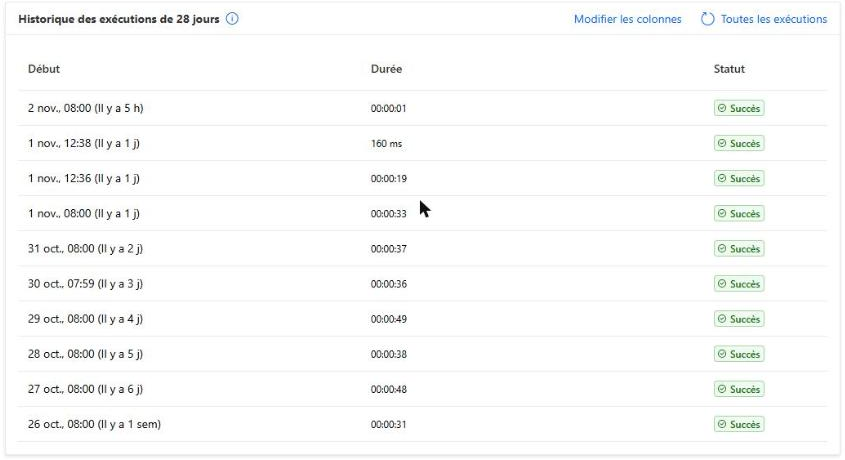
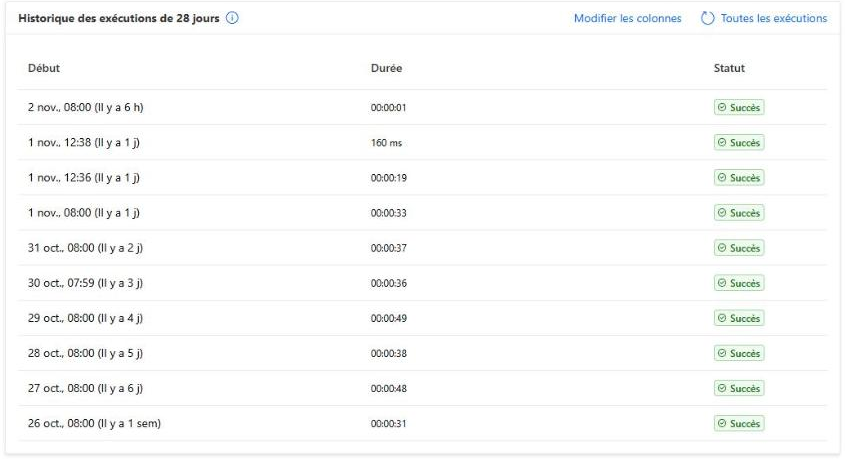
docs(progression): consigne l'echeance du 15 decembre, la liste priorisee et le scenario video final

diff --git a/docs/captures.md b/docs/captures.md
@@ -1,4 +1,4 @@
-# Captures d'écran et vidéo de démo
+# Captures d'écran et vidéo de démo
 
 Plan de prise de vue, dans l'ordre du parcours de démo. Les écrans hébergés par Power Platform
 doivent être capturés **avant le 15 décembre 2026**, date de suspension de l'environnement de
@@ -34,7 +34,7 @@ Toutes les images vont dans `docs/images/`, en PNG, nommées `NN-sujet.png`.
 | 11 | `11-dataverse-relation.png` | Table Demande AIPRP, Relations | `gk_demande` vers `gk_activite`, un-à-plusieurs | Claude | ✅ Fait le 2 nov. |
 | 12 | `12-flux-liste.png` | Power Automate, flux de la solution | Les 3 flux, état « Activé » | Claude | ✅ Fait le 2 nov. |
 | 13 | `13-flux1-execution.png` | Flux 1, exécution du 1er nov. à 12 h 32 | Condition fausse, branche « Faux », coches vertes | Claude | ✅ Fait le 2 nov. |
-| 14 | `14-flux2-historique.png` | Flux 2, historique des exécutions | Passages de 12 h 36 (19 s) et 12 h 38 (160 ms) : preuve de l'anti-doublon | Claude | ✅ Fait le 2 nov. (cadre de l'historique seulement) |
+| 14 | `14-flux2-historique.png` | Flux 2, historique des exécutions | Passages de 12 h 36 (19 s) et 12 h 38 (160 ms) : preuve de l'anti-doublon | Claude | ✅ Fait le 2 nov. (cadre de l'historique seulement, refaite sans pointeur) |
 | 15 | `15-flux3-concepteur.png` | Flux 3, concepteur, vue d'ensemble | Déclencheur, approbation, condition et ses deux branches. **Quitter sans enregistrer** | Claude | ✅ Fait le 2 nov., quitté sans enregistrer |
 | 16 | `16-flux3-execution.png` | Flux 3, exécution de l'approbation | Branche « Vrai » réussie | Claude | ✅ Fait le 2 nov. |
 | 17 | `17-approbation-carte.png` | Approbations, carte « Prorogation - … » ouverte | Motif et nouvelle échéance | Gween | Pendant les tests de la phase 3, avant de répondre |
@@ -44,25 +44,87 @@ Toutes les images vont dans `docs/images/`, en PNG, nommées `NN-sujet.png`.
 | 21 | `21-github-actions.png` | GitHub Actions | Pipeline vert (Solution Checker) | Gween | Phase 4 |
 | 22 | `22-github-adr.png` | GitHub, un ADR | Options et décision | Gween | Phase 6 |
 
+## Captures à refaire après le ménage des données
+
+Les compteurs actuels incluent les 2 demandes de test (A-2026-01021 et A-2026-01022), et la
+fiche de A-2026-01003 affiche un courriel en `exemple-fictif.ca`. Après le ménage (suppression de
+A-2026-01022, puis de A-2026-01021 à la fin des tests de la phase 3, avec l'accord de Gween, courriels passés en `example.com`), refaire **01, 02, 03,
+03b et 06** dans l'application publiée, avant le 15 décembre. Contrôle : la somme des tuiles du
+tableau de bord vaut 15.
+
+## Captures de la phase 3 (08, 17, 18, 19)
+
+Elles se prennent pendant le test de séparation des tâches, dans cet ordre, sur **A-2026-01021
+seulement**. Préparer deux fenêtres : une fenêtre InPrivate connectée avec `agent.test` (l'agent), la
+fenêtre normale avec le compte de Gween (le gestionnaire).
+
+1. **08 — Prorogation en attente** (fenêtre `agent.test`, application publiée). Ouvrir A-2026-01021 ;
+   si elle est à « Prorogée », la remettre à « En traitement ». Remplir « Demander une prorogation »
+   avec un motif fictif et une nouvelle échéance postérieure à l'échéance actuelle, puis soumettre.
+   Capturer la fiche : encadré « Prorogation en attente d'approbation », liste des statuts
+   verrouillée. Recadrer sous la barre Power Apps et exclure le champ courriel s'il est rempli.
+2. **17 — Carte d'approbation** (fenêtre de Gween). Power Automate > Approbations > Reçues, ouvrir la
+   carte « Prorogation - A-2026-01021 ». Attendre qu'elle apparaisse (jusqu'à quelques minutes).
+   Capturer le motif et la nouvelle échéance **avant de répondre**. Ne pas montrer les adresses du
+   demandeur ni de l'approbateur : recadrer sur le corps de la carte. Répondre ensuite, comme prévu
+   par le test.
+3. **18 — Rôles de sécurité** (fenêtre de Gween, à la fin de la phase 3). Centre d'administration
+   Power Platform > environnement > Paramètres > Utilisateurs + autorisations > Rôles de sécurité >
+   « Agent AIPRP », filtrer les tables sur `gk_`, capturer la matrice des privilèges ; même chose pour
+   « Gestionnaire AIPRP ». Lecture seule : ne rien modifier, ne pas cliquer sur Enregistrer. Une
+   image par rôle si une seule ne suffit pas (`18-roles-securite.png`, `18b-roles-securite.png`).
+4. **19 — Refus du serveur** (fin de la phase 3). Avec `agent.test`, tenter de passer A-2026-01021 à
+   « Prorogée » par l'API Web (script de test de la phase 3), puis capturer le message d'erreur du
+   plug-in dans le terminal. Avant la capture : vérifier qu'aucune URL d'organisation, aucun jeton et
+   aucun courriel n'apparaissent dans la sortie.
+
+Les captures 20 et 22 (GitHub) se prennent en phase 6, une fois le README définitif ; la 21, quand le
+pipeline de la phase 4 est vert. Elles ne dépendent pas de l'environnement.
+
+## Démonstration de secours (sans son)
+
+`demo-suivi-aiprp-2026-11-02.gif` (3 Mo, 28 images), enregistrée le 2 novembre dans l'application
+publiée depuis Chrome : tableau de bord, liste, recherche « Fontaine », bascule en anglais puis
+retour en français, formulaire Nouvelle demande. Aucune fiche détail (elle affiche un courriel),
+aucune donnée modifiée. Le fichier n'est **pas** dans le dépôt : il est conservé dans OneDrive.
+
 ## Vidéo de démo (2 à 3 minutes)
 
 Enregistrement avec Clipchamp ou l'outil Capture d'écran de Windows, fenêtre du navigateur
 seulement, en 1080p, sans musique. Narration en français ; sous-titres anglais ajoutés dans
-Clipchamp. Préparer les onglets comme pour la démo en direct, et faire une répétition.
+Clipchamp. À enregistrer **à la fin de la phase 3, avant le 15 décembre**, après le ménage des
+données.
 
-| Temps | Écran | Narration (résumé) |
-|---|---|---|
-| 0:00 – 0:15 | README GitHub, diagramme | Le besoin : suivre les demandes AIPRP et le délai légal de 30 jours, sur Power Platform, données fictives |
-| 0:15 – 0:40 | Tableau de bord, encadré en retard | Vue d'ensemble, retards et échéances à 5 jours calculés à partir de la date du jour |
-| 0:40 – 1:05 | Nouvelle demande, puis sa fiche | Création, échéance et numéro automatiques, première entrée au journal |
-| 1:05 – 1:25 | Flux 1, dernière exécution | Le flux s'est déclenché ; variable d'environnement, pas de courriel en développement |
-| 1:25 – 2:00 | Demande de prorogation, carte d'approbation, résultat | Séparation des tâches : l'agent demande, le gestionnaire approuve, le flux applique |
-| 2:00 – 2:20 | Refus du serveur (phase 3) | Le plug-in refuse un changement interdit, même par l'API |
-| 2:20 – 2:40 | Bascule FR/EN, clavier | Bilinguisme et accessibilité, tests axe-core |
-| 2:40 – 3:00 | GitHub : solution dépaquetée, Actions | ALM : tout est versionné et vérifié automatiquement |
+### Préparation
 
-La séquence 1:25 – 2:20 dépend de la phase 3 : enregistrer la vidéo à la fin de la phase 3, avant le
-15 décembre.
+- Données : ménage fait, 15 demandes de démo, dates rafraîchies. A-2026-01021 à « En traitement »
+  pour la séquence de prorogation (ou la demande prévue par le test de la phase 3).
+- Fenêtres : Chrome avec le compte de Gween (gestionnaire) et une fenêtre InPrivate avec
+  `agent.test` (agent). Zoom à 100 %, barre de favoris masquée, notifications Windows coupées.
+- Onglets ouverts dans l'ordre : README GitHub, application (fenêtre agent), Power Automate >
+  historique du flux 1, Approbations (fenêtre gestionnaire), terminal prêt pour le test de refus,
+  GitHub > `src/solution` et Actions.
+- Jamais à l'écran : barre d'adresse (la masquer au montage si besoin), courriels, panneau
+  « Références de connexion », valeurs des variables d'environnement.
+- Faire une répétition complète sans enregistrer.
+
+### Scénario final
+
+| Temps | Écran | Action | Narration (résumé) |
+|---|---|---|---|
+| 0:00 – 0:15 | README GitHub, diagramme | Défiler jusqu'au diagramme | Le besoin : suivre les demandes AIPRP et le délai légal de 30 jours, sur Power Platform, données fictives |
+| 0:15 – 0:35 | Tableau de bord (agent) | Montrer les tuiles et l'encadré « En retard » | Retards et échéances à 5 jours, calculés à partir de la date du jour |
+| 0:35 – 1:00 | Nouvelle demande, puis sa fiche | Créer une demande fictive en `example.com`, ouvrir sa fiche | Échéance et numéro automatiques, première entrée au journal |
+| 1:00 – 1:15 | Flux 1, dernière exécution | Ouvrir l'exécution qui vient d'avoir lieu | Le flux s'est déclenché ; variable d'environnement, pas de courriel en développement |
+| 1:15 – 1:35 | Fiche de la demande de test (agent) | Demander une prorogation, motif et nouvelle échéance | L'agent demande ; la liste des statuts se verrouille |
+| 1:35 – 1:55 | Approbations (gestionnaire) | Ouvrir la carte, approuver | Un autre compte, le gestionnaire, décide |
+| 1:55 – 2:05 | Fiche de la demande (agent) | Actualiser : « Prorogée », nouvelle échéance, journal | Le flux applique la décision et la trace |
+| 2:05 – 2:25 | Terminal | Lancer la tentative de l'agent par l'API | Le plug-in refuse le changement, même hors de l'application |
+| 2:25 – 2:40 | Application | Bascule FR/EN, Tab pour le lien d'évitement | Bilinguisme et accessibilité, tests axe-core |
+| 2:40 – 3:00 | GitHub : `src/solution`, Actions | Montrer la solution dépaquetée et le pipeline | ALM : tout est versionné et vérifié automatiquement |
+
+Au montage : couper les attentes (apparition de la carte d'approbation, exécution du flux), ajouter
+les sous-titres anglais, exporter en 1080p.
 
 ### Où déposer la vidéo
 

diff --git a/docs/progression.md b/docs/progression.md
@@ -1,4 +1,4 @@
-# Progression du projet
+# Progression du projet
 
 Document de suivi interne (équipe Gween + assistant), pas destiné à la doc publique finale — mais
 gardé dans le dépôt comme trace du cheminement réel, utile pour l'entrevue et pour reprendre le
@@ -27,6 +27,71 @@ de l'historique, plus bas dans ce document.
   `gk_daterappel` à vide. Supprimer la demande de test A-2026-01022 (« TEST FLUX 1 ») et les anciens
   cartons de rappel en double.
 - [ ] **Phase 8** — Ajout au portfolio gweenkangah.pro.
+
+### Échéance de l'environnement : 15 décembre 2026
+
+L'environnement est de type **Développeur, non géré** : Microsoft le suspend le **15 décembre 2026**
+et le supprime le 15 janvier 2027. Tout ce qui dépend de lui (captures des portails, vidéo, tests
+des rôles, test de redéploiement) doit être fait avant le 15 décembre. Séquence d'urgence acceptée
+par Gween le 1er novembre, avant la phase 3 :
+
+- [x] Étape 0 — Vérification dans le centre d'administration (Développeur, Géré : Non).
+- [x] Étape 1 — Sauvegarde : solution dépaquetée, données de démo, paramètres de déploiement
+  (`e42ec6c`). Revérifiée le 2 novembre : nouvel export identique (53 fichiers sur 53, 15 demandes,
+  39 activités).
+- [~] Étape 2 — Captures et vidéo : 01 à 07 et 09 à 16 faites le 2 novembre, GIF de secours
+  enregistré. Restent 08, 17 à 19 (phase 3), la vidéo commentée et les captures à refaire.
+- [ ] Étape 3 — Évaluer un mode démo sans Dataverse : effort, risques, recommandation, **sans code
+  avant l'accord de Gween**.
+- [ ] Étape 4 — `docs/installation.md`, test réel du redéploiement, options pour garder un
+  environnement (géré, essai, bac à sable), coûts et licences.
+- [ ] Étape 5 — Calendrier révisé des phases 3 à 8, puis lancement de la phase 3.
+
+### Reste à faire avant le 15 décembre 2026 (par priorité)
+
+Liste établie le 2 novembre 2026. Dates cibles proposées, à confirmer à l'étape 5.
+
+- [ ] **Avant le 6 nov.** — Étape 3 : présenter l'évaluation du mode démo (pas de code).
+- [ ] **Avant le 13 nov.** — Étape 4 : écrire `docs/installation.md`, puis tester réellement le
+  redéploiement de la solution et des données dans un autre environnement (`Import-DonneesDemo.ps1
+  -Importer` n'a encore jamais tourné pour de vrai). Ce test doit être fait tant que l'environnement
+  source existe, pour pouvoir comparer.
+- [ ] **Avant le 13 nov.** — Étape 5 : calendrier révisé, mise à jour de ce fichier.
+- [ ] **Avant le 4 déc.** — Phase 3 (plug-in C#, sécurité de colonne sur `gk_dateecheance`, rôles,
+  compte `agent.test`, ADR 0005), avec les captures 08 et 17 pendant les tests, 18 et 19 à la fin
+  (méthode dans `docs/captures.md`).
+- [ ] **Avant le 8 déc.** — Ménage des données nécessaire aux captures, avec l'accord de Gween pour
+  chaque suppression : demande de test A-2026-01022, cartons de rappel en double,
+  courriels en `example.com`, dates rafraîchies. A-2026-01021 reste jusqu'à la fin des tests de la phase 3, puis est supprimée (sinon les tuiles totalisent 16).
+- [ ] **Avant le 10 déc.** — Refaire les captures 01, 02, 03, 03b et 06 (somme des tuiles = 15).
+- [ ] **Avant le 12 déc.** — Vidéo commentée (scénario final dans `docs/captures.md`), téléversée
+  sur YouTube en « non répertoriée », original dans OneDrive.
+- [ ] **Avant le 14 déc.** — Dernier export de la solution et des données, comparaison avec le dépôt,
+  copie des fichiers hors Git dans OneDrive.
+- [ ] **Sans échéance stricte** — Mode démo (s'il est approuvé), phases 4 à 8. Les parties qui
+  utilisent un environnement (déploiement de la phase 4) dépendront de l'option retenue à l'étape 4.
+
+Pièges notés pendant les étapes 1 et 2 :
+
+- Dépaqueté en non géré seul, l'export montre une dépendance manquante `systemuser` (solution
+  `msdyn_PowerAdminSettingsEmail`) que le dépaquetage `Both` ne montre pas. À surveiller lors du test
+  de redéploiement de l'étape 4.
+- Dans le nouveau concepteur, déplier une branche active le bouton Enregistrer. Toujours sortir par
+  « Précédent » ; la date de modification du flux 3 est restée au 31 oct., 15 h 20.
+- Les captures Playwright locales n'ont pas de données (pas d'hôte Power Apps) : les écrans remplis
+  se capturent dans l'application publiée.
+
+### Fichiers hors de Git, à garder dans OneDrive
+
+| Fichier | Contenu |
+|---|---|
+| `out/solution/SuiviAIPRP.zip` et `SuiviAIPRP_managed.zip` | Exports de la solution du 2 nov. (identiques à un nouvel export du même jour) |
+| `deploy/settings.dev.json` | Paramètres de déploiement avec les valeurs actuelles des variables (comptes réels) |
+| `scripts/.env` | URL de l'organisation, locataire et ID de l'environnement |
+| `app/power.config.json` | ID de l'application et de l'environnement de la code app |
+| `app/.power/` | Schémas générés, nécessaires au build (voir le piège de la phase 1) |
+| `docs/audit.md` | Feuille de route de la finalisation, volontairement non commitée |
+| `demo-suivi-aiprp-2026-11-02.gif` (dossier Téléchargements) | Démonstration de secours sans son |
 
 Règles de travail : une branche par phase, plan au début, résumé et 3 points d'entrevue à la fin,
 accord de Gween avant de passer à la phase suivante, aucune suppression sans accord explicite.
